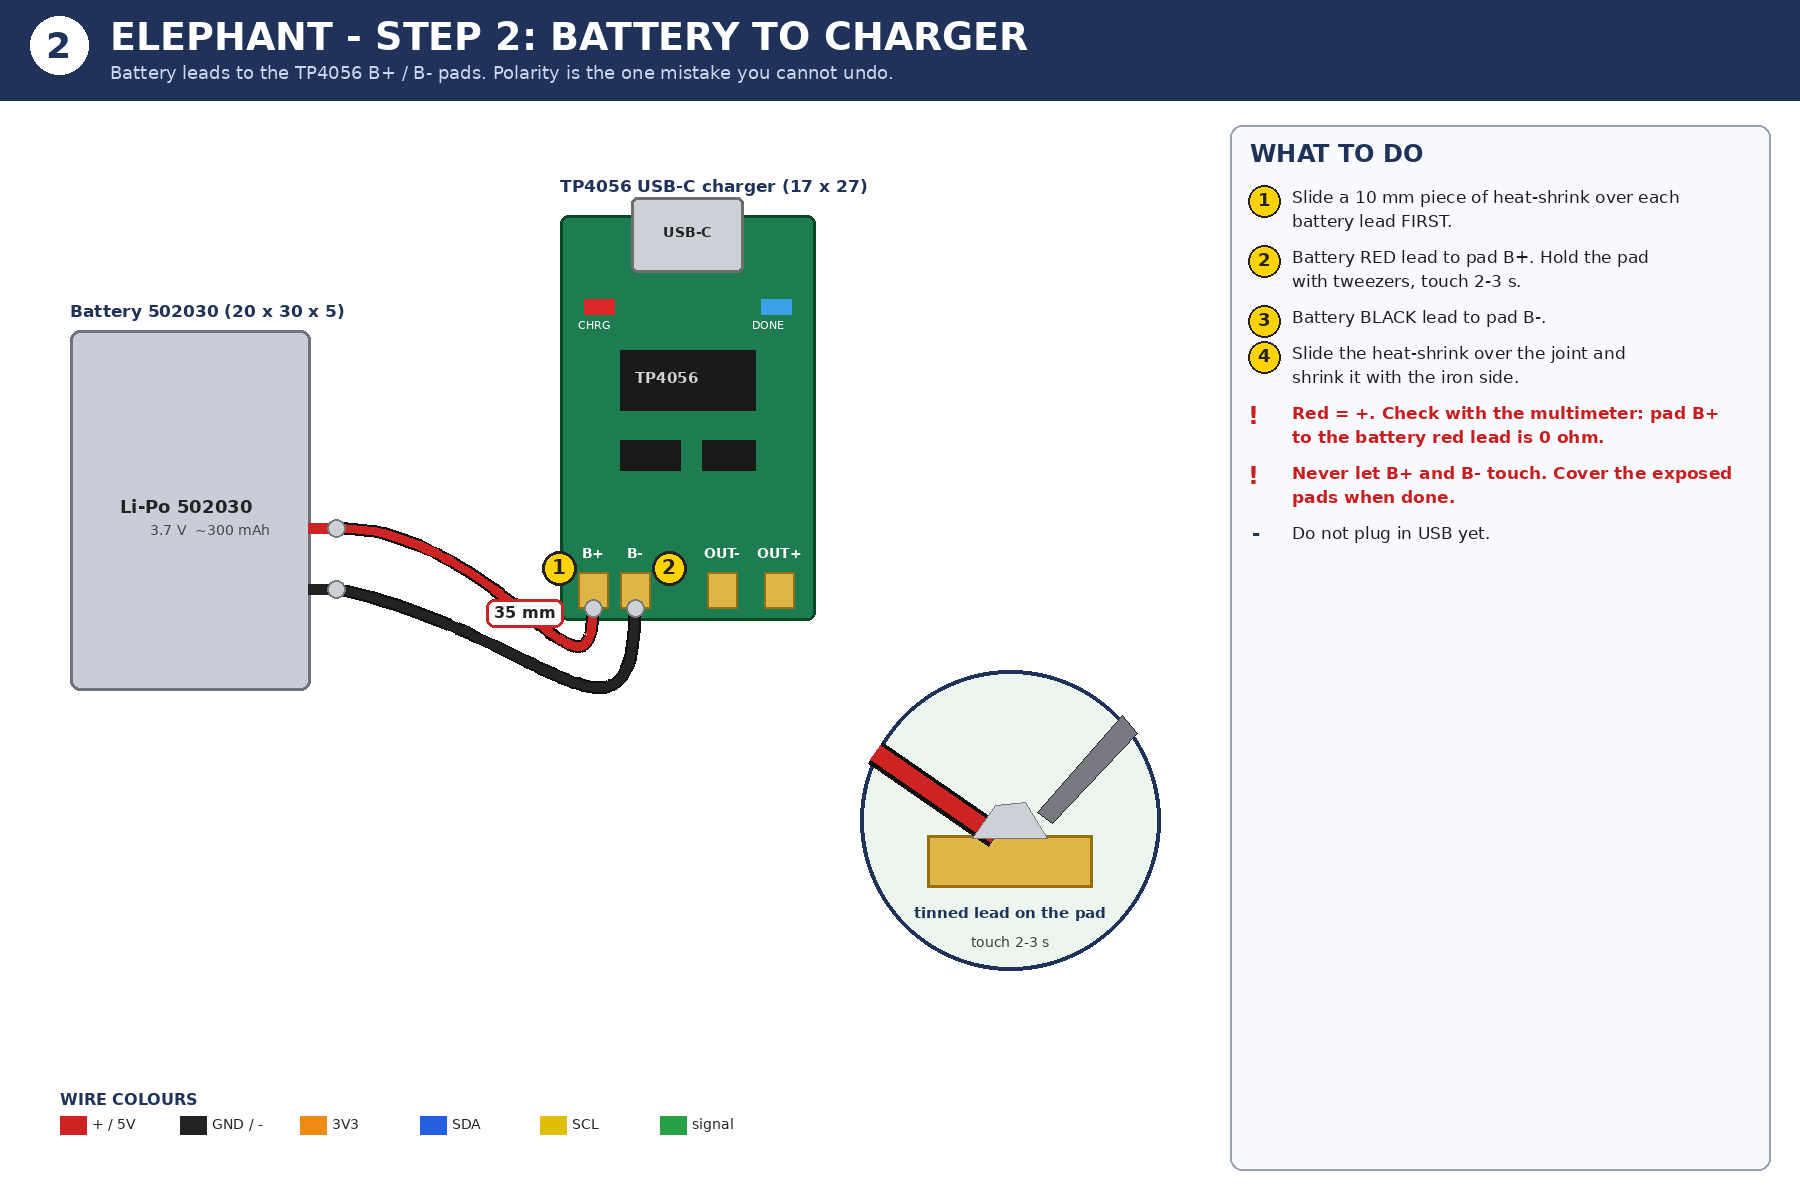
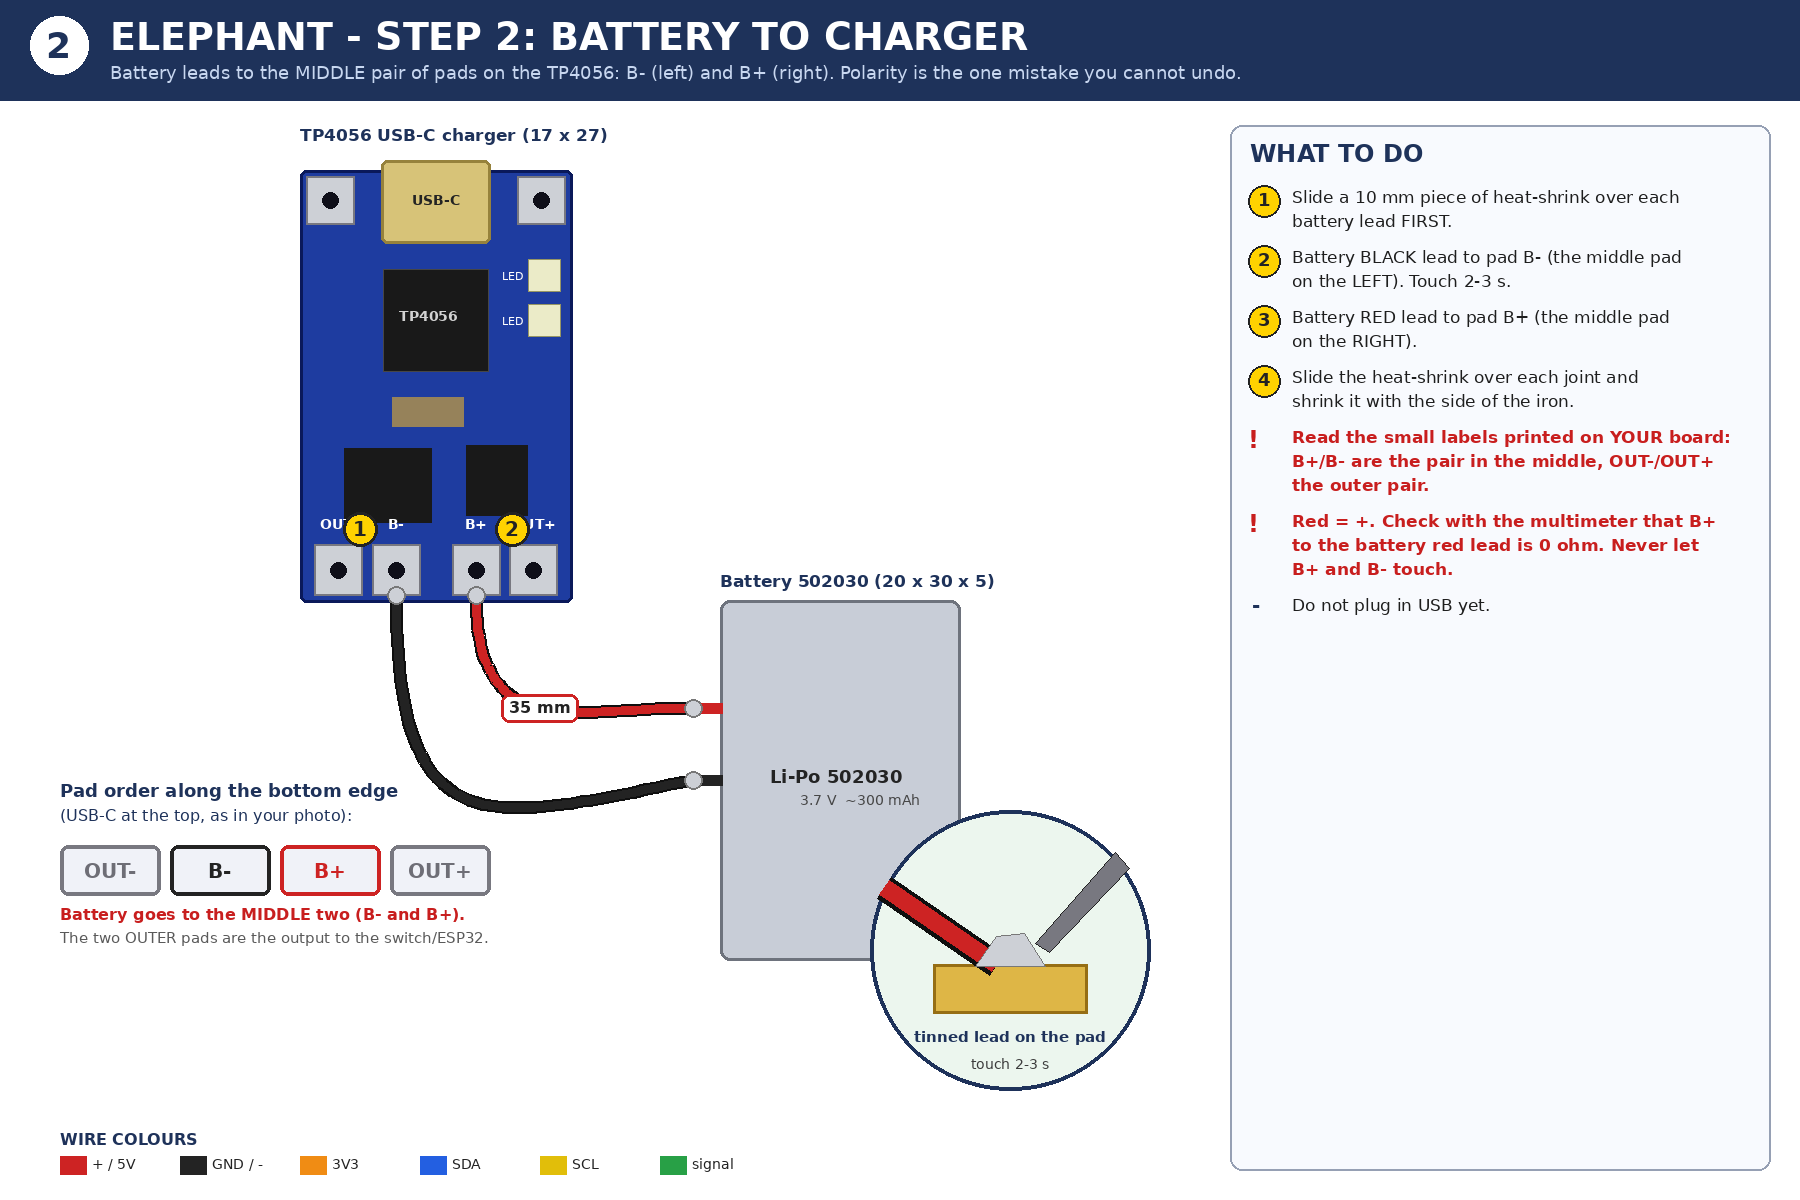
design(lilmate_3D_design): new project: elephant

diff --git a/.claude/skills/solder-sop/scripts/make_steps_elephant.py b/.claude/skills/solder-sop/scripts/make_steps_elephant.py
@@ -38,18 +38,22 @@ def marker(d,p,n,dx=0,dy=0):
     x,y=p[0]+dx,p[1]+dy;d.ellipse([x-17,y-17,x+17,y+17],fill=(255,210,0),outline=BLK,width=3);d.text((x-d.textlength(str(n),font=F(20,True))/2,y-13),str(n),fill=BLK,font=F(20,True))
 # ---------------- boards ----------------
 def tp(d,x,y,s=15,hl=()):
+    """Blue TP4056 Type-C board as in the user's photo: 2 mounting holes top corners, LEDs on the right, pads along the bottom: OUT-, B-, B+, OUT+ (left to right, USB-C at top)."""
     w,h=17*s,27*s
-    d.rounded_rectangle([x,y,x+w,y+h],radius=8,fill=PCB,outline=(10,70,40),width=3)
-    d.rounded_rectangle([x+w*0.28,y-s*1.2,x+w*0.72,y+s*3.8],radius=6,fill=SIL,outline=(110,110,110),width=3);d.text((x+w/2-d.textlength('USB-C',font=F(14,True))/2,y+s*0.6),'USB-C',fill=BLK,font=F(14,True))
-    d.rectangle([x+s*1.6,y+s*5.6,x+s*3.6,y+s*6.6],fill=(220,40,40));d.rectangle([x+s*13.4,y+s*5.6,x+s*15.4,y+s*6.6],fill=(60,160,230))
-    d.text((x+s*1.2,y+s*6.9),'CHRG',fill='white',font=F(11));d.text((x+s*12.8,y+s*6.9),'DONE',fill='white',font=F(11))
-    d.rectangle([x+s*4,y+s*9,x+s*13,y+s*13],fill=(25,25,25));d.text((x+s*5,y+s*10.3),'TP4056',fill=(210,210,210),font=F(15,True))
-    d.rectangle([x+s*4,y+s*15,x+s*8,y+s*17],fill=(25,25,25));d.rectangle([x+s*9.5,y+s*15,x+s*13,y+s*17],fill=(25,25,25))
+    d.rounded_rectangle([x,y,x+w,y+h],radius=6,fill=(30,60,160),outline=(10,25,90),width=3)
+    for hx in (1.9,15.1):   # mounting holes with square pads
+        d.rectangle([x+(hx-1.5)*s,y+0.4*s,x+(hx+1.5)*s,y+3.4*s],fill=(205,208,214),outline=(120,120,128),width=2);d.ellipse([x+(hx-0.5)*s,y+1.4*s,x+(hx+0.5)*s,y+2.4*s],fill=(15,15,25))
+    d.rounded_rectangle([x+w*0.30,y-s*0.6,x+w*0.70,y+s*4.6],radius=6,fill=(215,195,120),outline=(150,130,60),width=3);d.text((x+w/2-d.textlength('USB-C',font=F(14,True))/2,y+s*1.4),'USB-C',fill=BLK,font=F(14,True))
+    d.rectangle([x+s*5.2,y+s*6.2,x+s*11.8,y+s*12.6],fill=(25,25,25),outline=(70,70,70));d.text((x+s*6.2,y+s*8.6),'TP4056',fill=(210,210,210),font=F(14,True))
+    d.rectangle([x+s*14.3,y+s*5.6,x+s*16.3,y+s*7.6],fill=(235,235,200),outline=(150,150,100));d.rectangle([x+s*14.3,y+s*8.4,x+s*16.3,y+s*10.4],fill=(235,235,200),outline=(150,150,100))
+    d.text((x+s*12.6,y+s*6.2),'LED',fill='white',font=F(11));d.text((x+s*12.6,y+s*9.0),'LED',fill='white',font=F(11))
+    d.rectangle([x+s*5.8,y+s*14.2,x+s*10.2,y+s*16.0],fill=(150,130,90));d.rectangle([x+s*2.8,y+s*17.4,x+s*8.2,y+s*22],fill=(25,25,25));d.rectangle([x+s*10.4,y+s*17.2,x+s*14.2,y+s*21.6],fill=(25,25,25))
     P={}
-    for name,mx in (('B+',2.2),('B-',5.0),('OUT-',10.8),('OUT+',14.6)):
-        px,py=x+mx*s,y+25*s;d.rectangle([px-s,py-s*1.2,px+s,py+s*1.2],fill=GOLD,outline=(150,110,20),width=2)
-        d.text((px-d.textlength(name,font=F(14,True))/2,py-s*3.0),name,fill=(255,255,255),font=F(14,True));P[name]=(px,py+s*1.2)
-    d.text((x,y-s*2.6),'TP4056 USB-C charger (17 x 27)',fill=NAVY,font=F(17,True))
+    for name,mx in (('OUT-',2.4),('B-',6.0),('B+',11.0),('OUT+',14.6)):
+        px,py=x+mx*s,y+25.0*s
+        d.rectangle([px-1.5*s,py-1.6*s,px+1.5*s,py+1.6*s],fill=(205,208,214),outline=(120,120,128),width=2);d.ellipse([px-0.5*s,py-0.5*s,px+0.5*s,py+0.5*s],fill=(15,15,25))
+        d.text((px-d.textlength(name,font=F(14,True))/2,py-s*3.4),name,fill=(255,255,255),font=F(14,True));P[name]=(px,py+1.6*s)
+    d.text((x,y-s*2.8),'TP4056 USB-C charger (17 x 27)',fill=NAVY,font=F(17,True))
     return P
 ESP_L=['5V','GND','3V3','GPIO4','GPIO3','GPIO2','GPIO1','GPIO0'];ESP_R=['GPIO5','GPIO6','GPIO7','GPIO8','GPIO9','GPIO10','GPIO20','GPIO21']
 def esp(d,x,y,s=16,hl=()):
@@ -77,12 +81,15 @@ def oled(d,x,y,s=11):
         d.text((px-d.textlength(n,font=F(11,True))/2,py-s*2.7),n,fill='white',font=F(11,True));P[n]=(px,py+s*0.6)
     d.text((x,y-58),'1.3" OLED module (35.4 x 33.5)',fill=NAVY,font=F(17,True));d.text((x,y-34),'pin order varies: read YOUR silkscreen',fill=(200,30,30),font=F(14,True))
     return P
-def battery(d,x,y,s=12):
+def battery(d,x,y,s=12,leads='R'):
     w,h=20*s,30*s
     d.rounded_rectangle([x,y,x+w,y+h],radius=10,fill=(200,205,215),outline=(110,115,125),width=3);d.text((x+w/2-70,y+h/2-14),'Li-Po 502030',fill=BLK,font=F(18,True));d.text((x+w/2-40,y+h/2+12),'3.7 V  ~300 mAh',fill=(70,70,70),font=F(14))
-    d.rectangle([x+w-2,y+h*0.55-5,x+w+s*2.2,y+h*0.55+5],fill=RED);d.rectangle([x+w-2,y+h*0.72-5,x+w+s*2.2,y+h*0.72+5],fill=BLK)
+    if leads=='R':
+        d.rectangle([x+w-2,y+h*0.55-5,x+w+s*2.2,y+h*0.55+5],fill=RED);d.rectangle([x+w-2,y+h*0.72-5,x+w+s*2.2,y+h*0.72+5],fill=BLK);lx=x+w+s*2.2
+    else:
+        d.rectangle([x-s*2.2,y+h*0.30-5,x+2,y+h*0.30+5],fill=RED);d.rectangle([x-s*2.2,y+h*0.50-5,x+2,y+h*0.50+5],fill=BLK);lx=x-s*2.2
     d.text((x,y-s*2.4),'Battery 502030 (20 x 30 x 5)',fill=NAVY,font=F(17,True))
-    return {'+':(x+w+s*2.2,y+h*0.55),'-':(x+w+s*2.2,y+h*0.72)}
+    return {'+':(lx,y+h*(0.55 if leads=='R' else 0.30)),'-':(lx,y+h*(0.72 if leads=='R' else 0.50))}
 def switch(d,x,y,s=24):
     w,h=10.5*s*0.55,4.5*s*0.55*1.6
     d.rounded_rectangle([x,y,x+10.5*s*0.7,y+4.5*s*0.7],radius=5,fill=(180,185,195),outline=(90,90,95),width=3)
@@ -162,13 +169,17 @@ def step1():
     d.text((40,1120),'For every wire: strip 2 mm, twist, tin. Also tin the pads you will use. Keep the battery DISCONNECTED until step 3.',fill=(200,30,30),font=F(18,True))
     return im
 def step2():
-    im,d=new(2,'BATTERY TO CHARGER','Battery leads to the TP4056 B+ / B- pads. Polarity is the one mistake you cannot undo.')
-    bt=battery(d,70,330);T=tp(d,560,215)
-    wire(d,bt['+'],T['B+'],RED,c1=(bt['+'][0]+160,bt['+'][1]),c2=(T['B+'][0],T['B+'][1]+120),label='35 mm')
-    wire(d,bt['-'],T['B-'],BLK,c1=(bt['-'][0]+200,bt['-'][1]+40),c2=(T['B-'][0],T['B-'][1]+170))
-    marker(d,T['B+'],1,-34,-40);marker(d,T['B-'],2,34,-40)
-    zoom(d,1010,820,150,'tinned lead on the pad',RED);legend(d,60,1090)
-    panel(d,[('n','Slide a 10 mm piece of heat-shrink over each battery lead FIRST.'),('n','Battery RED lead to pad B+. Hold the pad with tweezers, touch 2-3 s.'),('n','Battery BLACK lead to pad B-.'),('n','Slide the heat-shrink over the joint and shrink it with the iron side.'),('!','Red = +. Check with the multimeter: pad B+ to the battery red lead is 0 ohm.'),('!','Never let B+ and B- touch. Cover the exposed pads when done.'),('-','Do not plug in USB yet.')])
+    im,d=new(2,'BATTERY TO CHARGER','Battery leads to the MIDDLE pair of pads on the TP4056: B- (left) and B+ (right). Polarity is the one mistake you cannot undo.')
+    T=tp(d,300,170,16);bt=battery(d,720,600,12,leads='L')
+    wire(d,bt['+'],T['B+'],RED,c1=(bt['+'][0]-120,bt['+'][1]),c2=(T['B+'][0],T['B+'][1]+150),label='35 mm')
+    wire(d,bt['-'],T['B-'],BLK,c1=(bt['-'][0]-200,bt['-'][1]+40),c2=(T['B-'][0],T['B-'][1]+260))
+    marker(d,T['B-'],1,-36,-66);marker(d,T['B+'],2,36,-66)
+    d.text((60,780),'Pad order along the bottom edge',fill=NAVY,font=F(18,True));d.text((60,806),'(USB-C at the top, as in your photo):',fill=NAVY,font=F(16))
+    for i,(n,c) in enumerate((('OUT-',(120,120,128)),('B-',BLK),('B+',RED),('OUT+',(120,120,128)))):
+        d.rounded_rectangle([60+i*110,845,60+i*110+100,895],radius=8,fill=(240,242,248),outline=c,width=4);d.text((60+i*110+50-d.textlength(n,font=F(20,True))/2,859),n,fill=c if n[0]=='B' else (110,110,118),font=F(20,True))
+    d.text((60,905),'Battery goes to the MIDDLE two (B- and B+).',fill=(200,30,30),font=F(16,True));d.text((60,929),'The two OUTER pads are the output to the switch/ESP32.',fill=(90,90,90),font=F(15))
+    zoom(d,1010,950,140,'tinned lead on the pad',RED);legend(d,60,1130)
+    panel(d,[('n','Slide a 10 mm piece of heat-shrink over each battery lead FIRST.'),('n','Battery BLACK lead to pad B- (the middle pad on the LEFT). Touch 2-3 s.'),('n','Battery RED lead to pad B+ (the middle pad on the RIGHT).'),('n','Slide the heat-shrink over each joint and shrink it with the side of the iron.'),('!','Read the small labels printed on YOUR board: B+/B- are the pair in the middle, OUT-/OUT+ the outer pair.'),('!','Red = +. Check with the multimeter that B+ to the battery red lead is 0 ohm. Never let B+ and B- touch.'),('-','Do not plug in USB yet.')])
     return im
 def step3():
     im,d=new(3,'POWER SWITCH AND ESP32 POWER','Charger output goes through the slide switch to the ESP32. Then test the power.')
@@ -177,14 +188,14 @@ def step3():
     wire(d,T['OUT+'],S['COM'],RED,c1=(T['OUT+'][0]+60,T['OUT+'][1]+150),c2=(S['COM'][0]-80,S['COM'][1]+80),label='%d mm'%ln('TP4056 OUT+','Switch COM',80))
     wire(d,S['ON'],E['5V'],RED,c1=(S['ON'][0]+150,S['ON'][1]+60),c2=(E['5V'][0]-150,E['5V'][1]-10),label='%d mm'%ln('Switch ON','ESP32 5V',75))
     wire(d,T['OUT-'],E['GND'],BLK,c1=(T['OUT-'][0]-10,T['OUT-'][1]+260),c2=(E['GND'][0]-260,E['GND'][1]+60),label='%d mm'%ln('TP4056 OUT-','ESP32 GND',25))
-    marker(d,T['OUT+'],1,28,-34);marker(d,S['COM'],2,0,50);marker(d,S['ON'],3,40,40);marker(d,E['5V'],4,-44,-26);marker(d,T['OUT-'],5,-34,-34);marker(d,E['GND'],6,-44,28)
+    marker(d,T['OUT+'],1,46,-14);marker(d,S['COM'],2,0,50);marker(d,S['ON'],3,40,40);marker(d,E['5V'],4,-44,-26);marker(d,T['OUT-'],5,-34,-14);marker(d,E['GND'],6,-44,28)
     # multimeter test
     mx,my=330,880
     d.line([(mx+40,my),(T['OUT+'][0]-8,T['OUT+'][1]+30)],fill=RED,width=5);d.line([(mx+110,my),(T['OUT-'][0]+8,T['OUT-'][1]+30)],fill=BLK,width=5)
     d.rounded_rectangle([mx,my,mx+150,my+240],radius=14,fill=(240,200,40),outline=BLK,width=4);d.rectangle([mx+14,my+16,mx+136,my+80],fill=(160,205,160),outline=BLK,width=2);d.text((mx+26,my+28),'3.9 V',fill=BLK,font=F(34,True));d.ellipse([mx+40,my+110,mx+110,my+180],fill=(60,60,60),outline=BLK,width=3);d.text((mx+60,my+130),'V',fill='white',font=F(24,True))
     d.text((mx+170,my+30),'POWER TEST',fill=NAVY,font=F(22,True));d.text((mx+170,my+62),'USB-C in, switch ON:',fill=BLK,font=F(16));d.text((mx+170,my+84),'OUT+ to OUT- = 3.7 - 4.2 V',fill=BLK,font=F(16,True));d.text((mx+170,my+106),'red CHRG LED on while charging',fill=BLK,font=F(16))
     legend(d,40,1130)
-    panel(d,[('n','TP4056 OUT+ to the middle pin of the switch (COM).'),('n','Switch pin ON (the side that is ON when the lever is toward the lid mark) to ESP32 5V pad.'),('n','TP4056 OUT- to ESP32 GND pad.'),('n','Connect the battery and plug USB-C into the TP4056. Switch ON.'),('n','Measure OUT+ to OUT-: 3.7 - 4.2 V, and the ESP32 LED lights. Switch OFF.'),('!','If the ESP32 gets hot or the CHRG LED flickers, unplug and look for a short.'),('-','The unused outer switch pin stays free: trim or insulate it.')])
+    panel(d,[('n','TP4056 OUT+ (the OUTER pad on the right) to the middle pin of the switch (COM).'),('n','Switch pin ON (the side that is ON when the lever is toward the lid mark) to ESP32 5V pad.'),('n','TP4056 OUT- (the OUTER pad on the left) to ESP32 GND pad.'),('n','Connect the battery and plug USB-C into the TP4056. Switch ON.'),('n','Measure OUT+ to OUT-: 3.7 - 4.2 V, and the ESP32 LED lights. Switch OFF.'),('!','If the ESP32 gets hot or the CHRG LED flickers, unplug and look for a short.'),('-','The unused outer switch pin stays free: trim or insulate it.')])
     return im
 def step4():
     im,d=new(4,'DISPLAY','OLED: VCC and GND go to splices, SDA and SCL go straight to the ESP32.')

diff --git a/.claude/skills/solder-sop/SKILL.md b/.claude/skills/solder-sop/SKILL.md
@@ -22,6 +22,8 @@ The script reads component positions from `<project>/hardware/components.md` (wi
 - Other GPIOs: Elephant/Pengu touch on GPIO2 (from `minimo_bear.ino`); Music Player map from `docs/components_L_retro_pc.md`; Office Buddy and Desk Mini are proposed. Each sheet carries a yellow CHECK banner saying which numbers are unconfirmed.
 - To change a pin: edit `product()` in `make_sop.py` (and `hardware/pinout.md`), then regenerate. Never leave the SOP and `pinout.md` disagreeing.
 
+- TP4056 board pad order (user photo 2026-11-16, USB-C up): OUT-, B-, B+, OUT+ left to right along the bottom edge; battery on the middle pair. The Elephant step images use this layout; the overview sheets show the pads only as logical pins.
+
 ## Rules for the sheet
 - Solder with the battery disconnected until the power test (step 3), and verify polarity with a multimeter.
 - Keep GND/3V3 as splices, one wire each to the ESP32 pad (the module has few power pads).

diff --git a/music_player/hardware/pinout.md b/music_player/hardware/pinout.md
@@ -11,3 +11,6 @@ Provisional map from `docs/components_L_retro_pc.md` (ESP32-C3, 13 usable GPIO: 
 | spare | 2, 7, 10 (TTP223 not used) |
 
 Power: Li-Po 503450 -> TP4056 -> ESP32; audio out is the YX6300 3.5 mm jack (no speaker, wired only).
+
+## TP4056 USB-C board (from the user photo, 2026-11-16)
+Blue Type-C board, USB-C at the top. Pads along the bottom edge, left to right: **OUT-, B-, B+, OUT+**. Battery goes to the MIDDLE pair (B-, B+); the OUTER pair (OUT-, OUT+) is the output to the switch and ESP32. Two mounting holes at the top corners, two LEDs on the right side. Photo: `datasheets/tp4056_usbc_board_photo.jpeg` (Elephant folder).

diff --git a/elephant/hardware/pinout.md b/elephant/hardware/pinout.md
@@ -6,3 +6,6 @@
 | TTP223 touch | 2 | `minimo_bear.ino` (confirm for this product) |
 | Slide switch | power path (battery to charger/ESP), no GPIO | design |
 | Battery / charging | Li-Po 502030 -> TP4056 -> ESP32 5V/3V3 | design |
+
+## TP4056 USB-C board (from the user photo, 2026-11-16)
+Blue Type-C board, USB-C at the top. Pads along the bottom edge, left to right: **OUT-, B-, B+, OUT+**. Battery goes to the MIDDLE pair (B-, B+); the OUTER pair (OUT-, OUT+) is the output to the switch and ESP32. Two mounting holes at the top corners, two LEDs on the right side. Photo: `datasheets/tp4056_usbc_board_photo.jpeg` (Elephant folder).

diff --git a/pengu_chubby/hardware/pinout.md b/pengu_chubby/hardware/pinout.md
@@ -6,3 +6,6 @@
 | TTP223 touch | 2 | `minimo_bear.ino` (confirm for this product) |
 | Slide switch | power path (battery to charger/ESP), no GPIO | design |
 | Battery / charging | Li-Po 502030 -> TP4056 -> ESP32 5V/3V3 | design |
+
+## TP4056 USB-C board (from the user photo, 2026-11-16)
+Blue Type-C board, USB-C at the top. Pads along the bottom edge, left to right: **OUT-, B-, B+, OUT+**. Battery goes to the MIDDLE pair (B-, B+); the OUTER pair (OUT-, OUT+) is the output to the switch and ESP32. Two mounting holes at the top corners, two LEDs on the right side. Photo: `datasheets/tp4056_usbc_board_photo.jpeg` (Elephant folder).

diff --git a/deck_buddy/hardware/pinout.md b/deck_buddy/hardware/pinout.md
@@ -5,3 +5,6 @@
 | OLED SDA / SCL (I2C) | 8 / 9 | assumed, same stack as Elephant |
 | Slide switch | power path, no GPIO | back lid |
 | Battery | not modelled in the CAD | CONFIRM |
+
+## TP4056 USB-C board (from the user photo, 2026-11-16)
+Blue Type-C board, USB-C at the top. Pads along the bottom edge, left to right: **OUT-, B-, B+, OUT+**. Battery goes to the MIDDLE pair (B-, B+); the OUTER pair (OUT-, OUT+) is the output to the switch and ESP32. Two mounting holes at the top corners, two LEDs on the right side. Photo: `datasheets/tp4056_usbc_board_photo.jpeg` (Elephant folder).

diff --git a/office_buddy/hardware/pinout.md b/office_buddy/hardware/pinout.md
@@ -10,3 +10,6 @@ Based on the Music Player map; the YX6300 is not used and a buzzer is added.
 | Buzzer | TBD |
 
 Power: Li-Po 503450 -> TP4056 (4 mounting pins) -> ESP32.
+
+## TP4056 USB-C board (from the user photo, 2026-11-16)
+Blue Type-C board, USB-C at the top. Pads along the bottom edge, left to right: **OUT-, B-, B+, OUT+**. Battery goes to the MIDDLE pair (B-, B+); the OUTER pair (OUT-, OUT+) is the output to the switch and ESP32. Two mounting holes at the top corners, two LEDs on the right side. Photo: `datasheets/tp4056_usbc_board_photo.jpeg` (Elephant folder).

diff --git a/elephant/hardware/datasheets/README.md b/elephant/hardware/datasheets/README.md
@@ -1,1 +1,3 @@
 Put datasheet PDFs and photos of measured boards here (OLED, ESP32-C3 Super Mini, TP4056, battery, switch).
+
+- `tp4056_usbc_board_photo.jpeg`: the TP4056 USB-C board used in the Elephant. Pad order along the bottom edge (USB-C up): OUT-, B-, B+, OUT+.
